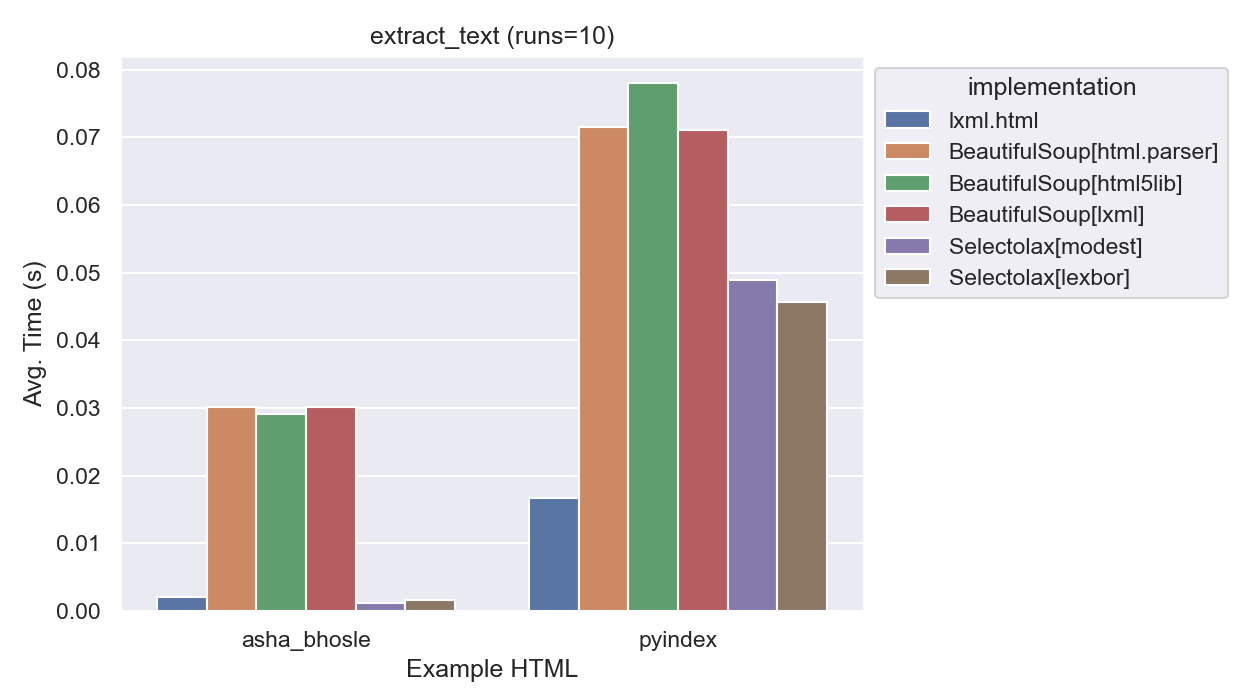
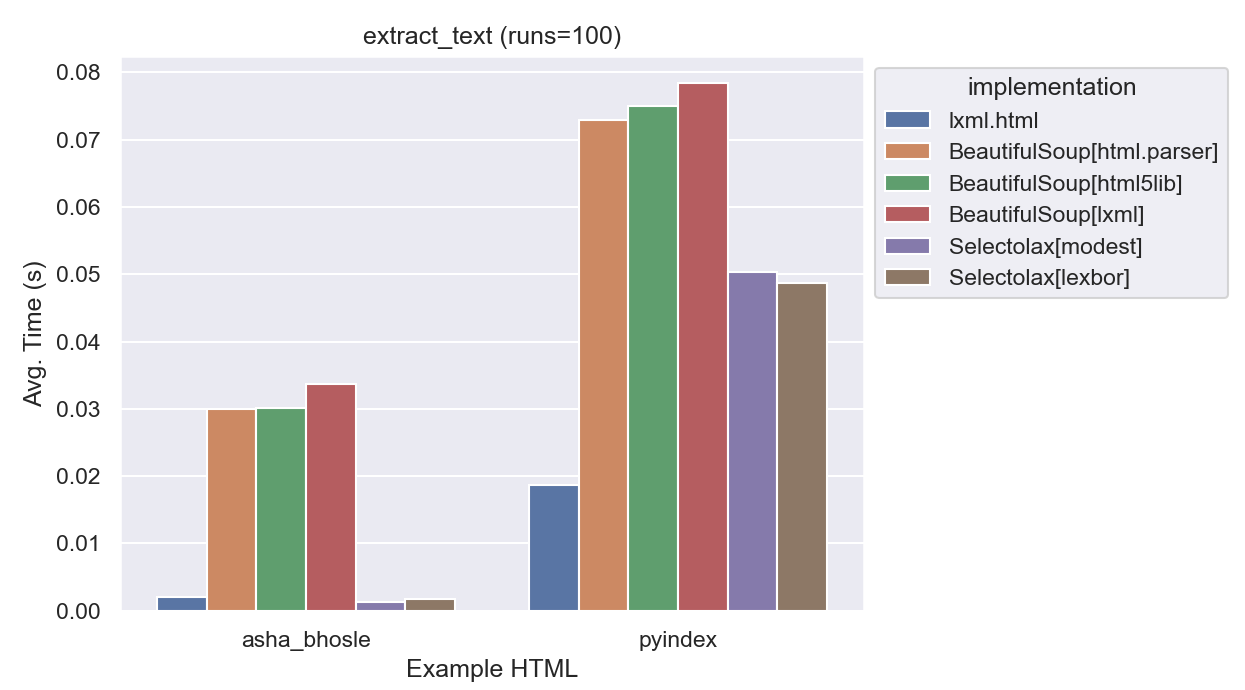
cleanup

diff --git a/aows/parsing/speed.py b/aows/parsing/speed.py
@@ -7,23 +7,23 @@ from .implementations import BSoup, Lxml, Selectolax, SelectoLexbor, Parsel
 
 # TODO: regen graphs w/ count = 100, and normalize colors between runs (reordering parsel to last might do the trick)
 methods = [
-    # ("load_dom", 5),
-    # ("links_natural", 10),
-    # ("links_css", 10),
-    ("count_nodes", 10),
-    ("extract_text", 10),
+    ("load_dom", 5),
+    ("links_natural", 100),
+    ("links_css", 100),
+    ("count_nodes", 100),
+    ("extract_text", 100),
 ]
 
 
 def run_all_benchmarks():
     implementations = [
         Lxml(),
-        Parsel(),
         BSoup("html.parser"),
         BSoup("html5lib"),
         BSoup("lxml"),
         Selectolax(),
         SelectoLexbor(),
+        Parsel(),
     ]
     runs = []
     for impl in implementations:

diff --git a/docs/parsing/features.md b/docs/parsing/features.md
@@ -9,14 +9,14 @@ We'll compare the experience by looking at a few aspects of the developer experi
 * Documentation
 * Common Tasks Compared
 
-| Library | License | Stars (Dec 2022) | 
-| --- | --- | --- |
-](https://github.com/lxml/lxml)| [lxml](https://lxml.de/) | [2.2k](https://github.com/lxml/lxml) |
-| [BeautifulSoup](https://www.crummy.com/software/BeautifulSoup/) | * |
+| Library | Stars (Dec 2022) | 
+| --- | --- |
+| [lxml](https://lxml.de/) | [2.2k](https://github.com/lxml/lxml) |
+| [BeautifulSoup](https://www.crummy.com/software/BeautifulSoup/) | ✳ |
 | [selectolax](https://github.com/rushter/selectolax) | ~850 |
-| [parsel](https://github.com/scrapy/parsel) | MIT | ~700 |
+| [parsel](https://github.com/scrapy/parsel) | ~700 |
 
-* BeautifulSoup is developed on https://code.launchpad.net/beautifulsoup not GitHub.
+✳ BeautifulSoup is developed [on Launchpad](https://code.launchpad.net/beautifulsoup) not GitHub.
 
 All of the libraries are permissively licensed (either MIT or BSD).
 
